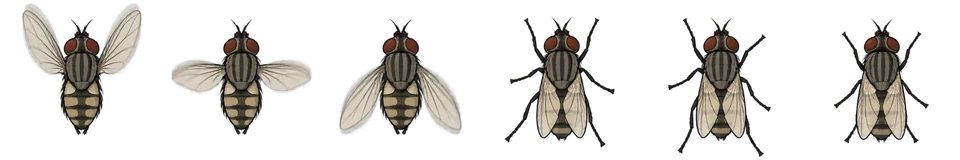
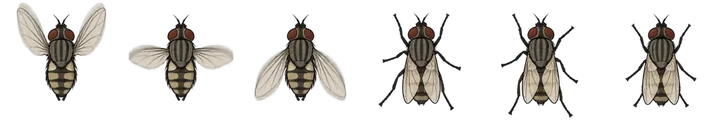
La landing trabaja menos en móvil al arrancar (#21)
Para el Lighthouse móvil, donde lo que más pesa ya es el trabajo de
JavaScript al arrancar (TBT) y no la descarga.

- **Animaciones preparadas por partes.** Antes, `run()` creaba en una
sola tarea todos los ScrollTrigger, SplitText y las piezas de la página
(la tarea larga de ScrollTrigger, ~115 ms en móvil). Ahora la entrada
(dibujo, ojos y notas, que `html.pending` oculta hasta entonces) va
primero, y el resto, una pieza por tarea, cediendo el hilo entre medias.
Si se pausa el movimiento a mitad, las piezas pendientes no se montan.
- **Sin Lenis en pantallas táctiles** (`hover: none`). En el móvil no
suaviza el desplazamiento con el dedo, y aun así corría en cada
fotograma; ahora el desplazamiento es el nativo y se ahorra un script de
6,8 KB. En escritorio no cambia nada.
- **Moscas:** sprite a viñetas de 120 px (43 → 26 KB); comparadas a 128
px, su tamaño mayor en pantalla, se ven igual.

**Comprobado:**
- `pnpm run build` (astro check incluido): 0 errores.
- En el navegador, en tamaño móvil: Lenis no se descarga, sin errores en
consola, las notas se ven, las moscas se crean.

**Sin comprobar:** que los especímenes se sellen al desplazarse. Mi
panel de navegador estaba oculto, lo que pausa las animaciones (en
producción ocurría lo mismo en la prueba). Conviene mirarlo en un móvil
real tras desplegar.

diff --git a/src/scripts/motion.ts b/src/scripts/motion.ts
@@ -50,21 +50,28 @@ function settle() {
   paintCounter()
 }
 
+// Lets the browser paint and handle input between two pieces of the set-up: one long task would block a phone.
+const breathe = () => new Promise<void>(resolve => setTimeout(resolve, 0))
+
 async function run() {
   if (!landing) return
+  // On touch screens Lenis doesn't smooth the finger's scroll anyway: native scrolling, one script and a per-frame job less.
+  const touch = matchMedia('(hover: none)').matches
   const [{ gsap }, { ScrollTrigger }, { SplitText }, { DrawSVGPlugin }, Lenis] = await Promise.all([
     import('gsap'), import('gsap/ScrollTrigger'), import('gsap/SplitText'), import('gsap/DrawSVGPlugin'),
-    import('lenis').then(module => module.default),
+    touch ? null : import('lenis').then(module => module.default),
   ])
   gsap.registerPlugin(ScrollTrigger, SplitText, DrawSVGPlugin)
   // On phones the address bar shows and hides as you scroll, changing the viewport's height: recomputing the held
   // plates then would make the page jump under the finger.
   ScrollTrigger.config({ ignoreMobileResize: true })
-  const lenis = new Lenis({ anchors: true, lerp: 0.12 })
-  const onTick = (time: number) => lenis.raf(time * 1000)
-  lenis.on('scroll', ScrollTrigger.update)
-  gsap.ticker.add(onTick)
-  gsap.ticker.lagSmoothing(0)
+  const lenis = Lenis ? new Lenis({ anchors: true, lerp: 0.12 }) : null
+  const onTick = (time: number) => lenis?.raf(time * 1000)
+  if (lenis) {
+    lenis.on('scroll', ScrollTrigger.update)
+    gsap.ticker.add(onTick)
+    gsap.ticker.lagSmoothing(0)
+  }
   Object.assign(tally, { page: 0, specimens: 0 })
   paintCounter()
 
@@ -72,13 +79,29 @@ async function run() {
   const media = gsap.matchMedia()
   // The safety net already showed the page (the script came late): don't hide it again to animate its entrance.
   const late = !root.classList.contains('pending')
+  // The entrance first, in the same task as the first frame it animates; the rest of the page a piece at a time.
   const context = gsap.context(() => {
     ink(gsap, late)
     cleanups.push(eyes(gsap))
+    // html.pending hides the notes until they write themselves: they must be set up before it goes.
+    notes(gsap, ScrollTrigger, late)
+  })
+  root.classList.remove('pending')
+  let stopped = false
+  teardown = () => {
+    stopped = true
+    cleanups.forEach(cleanup => cleanup())
+    media.revert()
+    context.revert()
+    document.querySelectorAll('.critter, .leaf').forEach(element => element.remove())
+    gsap.ticker.remove(onTick)
+    lenis?.destroy()
+  }
+  const pieces: (() => void)[] = [
     // The big set pieces (bugs all over the page, the turning pages) are for wide screens. On phones and tablets a
     // few bugs walk beside the drawing and the specimens are stamped as they scroll in: lighter, and nothing fights
     // with touch scrolling.
-    media.add({ wide: WIDE, narrow: `not all and ${WIDE}` }, matched => {
+    () => media.add({ wide: WIDE, narrow: `not all and ${WIDE}` }, matched => {
       Object.assign(tally, { page: 0, specimens: 0 })
       paintCounter()
       stamps(gsap, ScrollTrigger)
@@ -89,23 +112,17 @@ async function run() {
         bugsOnPage()
         document.querySelectorAll('.leaf').forEach(element => element.remove())
       }
-    })
-    reveals(gsap, SplitText)
-    terminal(gsap, ScrollTrigger)
-    ledger(gsap, ScrollTrigger)
-    belt(gsap)
-    card(gsap)
-    numerals(gsap)
-    notes(gsap, ScrollTrigger, late)
-  })
-  root.classList.remove('pending')
-  teardown = () => {
-    cleanups.forEach(cleanup => cleanup())
-    media.revert()
-    context.revert()
-    document.querySelectorAll('.critter, .leaf').forEach(element => element.remove())
-    gsap.ticker.remove(onTick)
-    lenis.destroy()
+    }),
+    () => reveals(gsap, SplitText),
+    () => terminal(gsap, ScrollTrigger),
+    () => ledger(gsap, ScrollTrigger),
+    () => { belt(gsap); card(gsap) },
+    () => numerals(gsap),
+  ]
+  for (const piece of pieces) {
+    await breathe()
+    if (stopped) return
+    context.add(piece)
   }
   // Only if the fonts weren't there yet: a refresh once the reader is scrolling moves the held plates under them.
   if (document.fonts.status !== 'loaded') void document.fonts.ready.then(() => ScrollTrigger.refresh())
